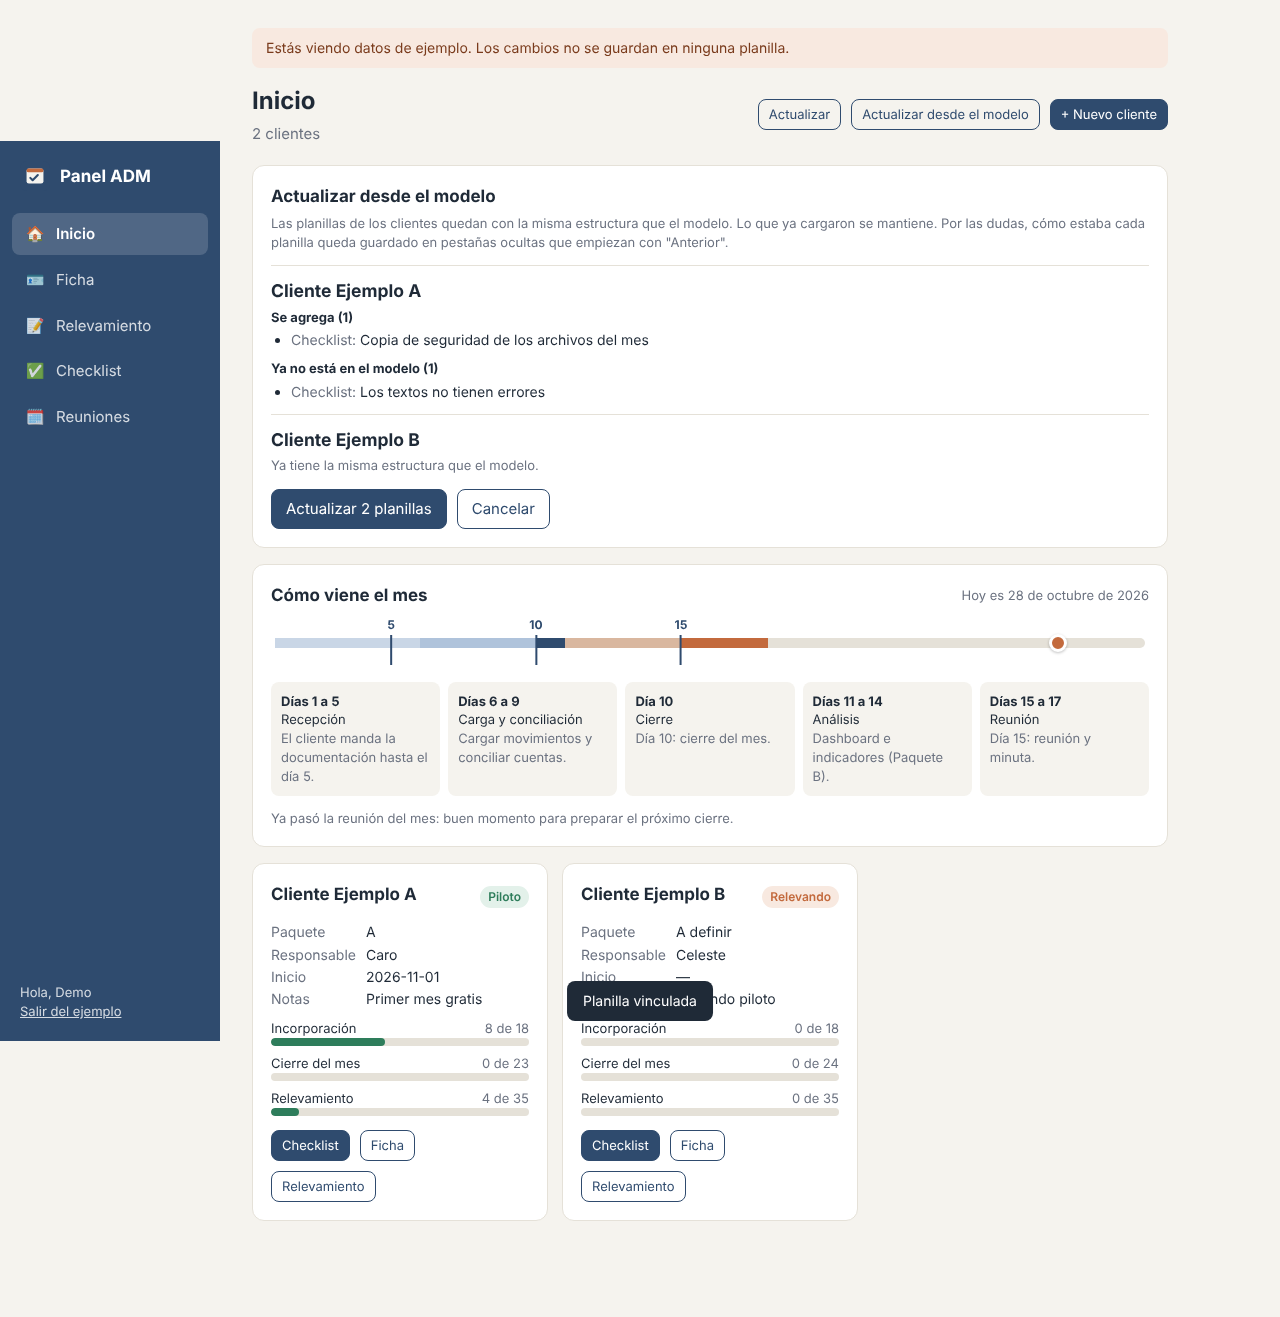
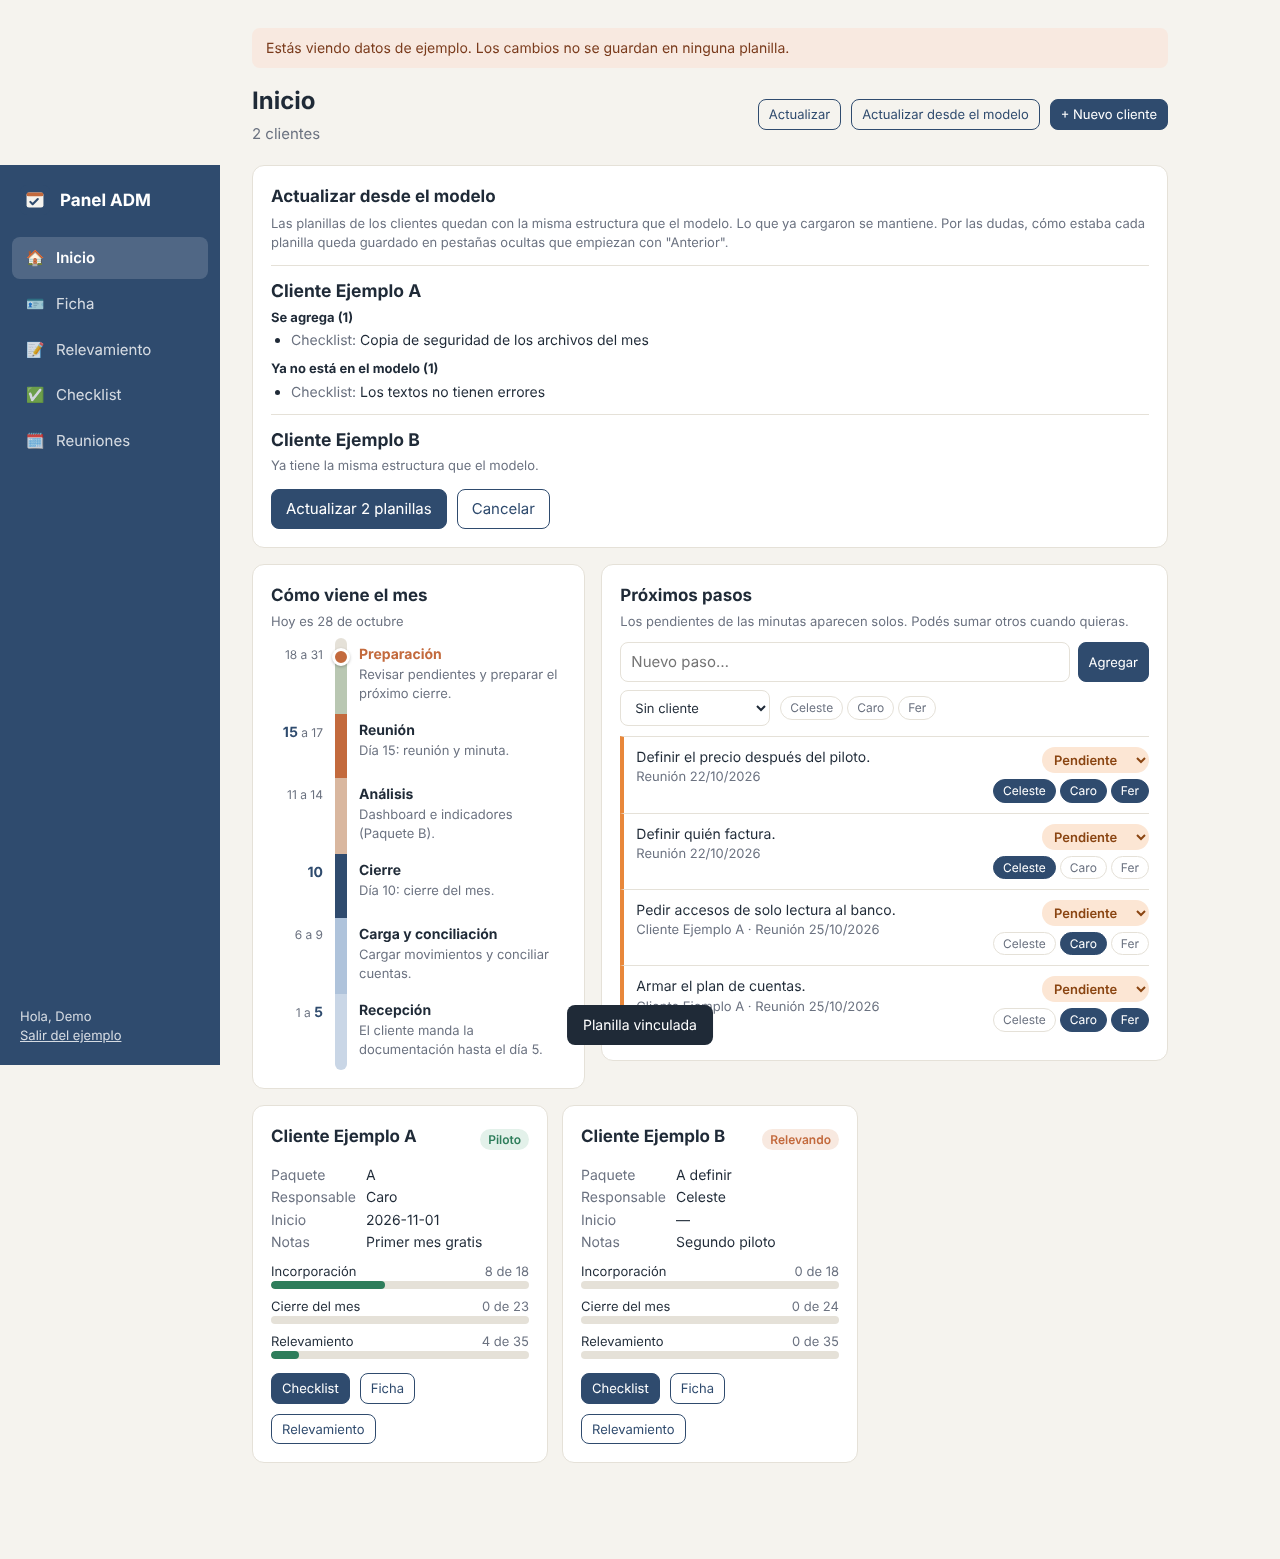
Inicio: línea del mes vertical y próximos pasos
La línea del mes va de abajo (día 1) para arriba. Al costado, los próximos
pasos con estado (pendiente, en proceso, listo) y una o varias responsables.
Los pendientes de las minutas entran solos y se pueden agregar pasos.

Claude-Session: https://claude.ai/code/session_01CkpyEnNgpYTQmv3rxBhnV1

Changed region(s): [[0.0, 0.0311, 0.9375, 0.9339], [0.0, 0.1245, 0.1875, 0.3424], [0.5938, 0.716, 0.6562, 0.7472]]

diff --git a/index.html b/index.html
@@ -91,17 +91,39 @@
   .client-card dt { color: var(--muted); }
   .client-card dd { margin: 0; }
 
-  /* Calendario del mes */
-  .month { position: relative; height: 54px; margin: 8px 4px 4px; }
-  .month .track { position: absolute; left: 0; right: 0; top: 22px; height: 10px; border-radius: 99px; background: var(--line); }
-  .month .seg { position: absolute; top: 22px; height: 10px; }
-  .month .mark { position: absolute; top: 0; transform: translateX(-50%); font-size: 12px; font-weight: 700; color: var(--primary); text-align: center; }
-  .month .mark::after { content: ""; display: block; width: 2px; height: 30px; margin: 2px auto 0; background: var(--primary); }
-  .month .today { position: absolute; top: 18px; width: 18px; height: 18px; border-radius: 50%; background: var(--accent); border: 3px solid #fff; transform: translateX(-50%); box-shadow: 0 1px 3px rgba(0,0,0,.25); }
-  .phases { display: grid; grid-template-columns: repeat(5, 1fr); gap: 8px; margin-top: 12px; }
-  .phase { padding: 10px; border-radius: 8px; background: var(--bg); font-size: 13px; }
-  .phase b { display: block; font-size: 13px; }
-  .phase.now { background: var(--accent-soft); outline: 2px solid var(--accent); }
+  /* Calendario del mes: de abajo (día 1) para arriba */
+  .home-grid { display: grid; grid-template-columns: minmax(250px, 1fr) 1.7fr; gap: 16px; align-items: start; }
+  .vline { margin-top: 8px; }
+  .vstep { display: grid; grid-template-columns: 52px 12px 1fr; gap: 0 12px; min-height: 64px; }
+  .vday { font-size: 12px; color: var(--muted); text-align: right; padding-top: 8px; }
+  .vday b { color: var(--primary); font-size: 14px; }
+  .vbar { position: relative; background: var(--line); }
+  .vstep:first-child .vbar { border-radius: 99px 99px 0 0; }
+  .vstep:last-child .vbar { border-radius: 0 0 99px 99px; }
+  .vstep.past .vbar, .vstep.now .vbar { background: var(--c); }
+  .vstep.now .vbar { background: linear-gradient(to top, var(--c) var(--fill), var(--line) var(--fill)); }
+  .vbar .today { position: absolute; left: 50%; bottom: var(--fill); width: 18px; height: 18px; border-radius: 50%; background: var(--accent); border: 3px solid #fff; transform: translate(-50%, 50%); box-shadow: 0 1px 3px rgba(0,0,0,.25); }
+  .vtext { font-size: 13px; padding: 6px 0 12px; }
+  .vtext b { display: block; font-size: 14px; }
+  .vstep.now .vtext b { color: var(--accent); }
+  .vstep.future .vtext { opacity: .75; }
+
+  /* Próximos pasos */
+  .paso { display: flex; gap: 12px; align-items: flex-start; padding: 10px 0 10px 12px; border-top: 1px solid var(--line); border-left: 4px solid var(--st); }
+  .paso-main { flex: 1; min-width: 0; }
+  .paso-text { font-size: 14px; }
+  .paso.listo .paso-text { color: var(--muted); text-decoration: line-through; }
+  .paso-ctrl { display: flex; flex-direction: column; align-items: flex-end; gap: 6px; flex-shrink: 0; }
+  .chips { display: flex; gap: 4px; flex-wrap: wrap; }
+  .chip { border: 1px solid var(--line); background: #fff; color: var(--muted); border-radius: 99px; padding: 2px 9px; font-size: 12px; cursor: pointer; font-family: inherit; }
+  .chip.on { background: var(--primary); border-color: var(--primary); color: #fff; }
+  select.estado { width: auto; padding: 4px 8px; font-size: 13px; font-weight: 600; border-radius: 99px; border: 0; background: var(--st-soft); color: var(--st-ink); cursor: pointer; }
+  .st-pend { --st: #E8873A; --st-soft: #FCE6D4; --st-ink: #8A4512; }
+  .st-proc { --st: #E5B800; --st-soft: #FFF4C2; --st-ink: #6E5600; }
+  .st-listo { --st: var(--ok); --st-soft: var(--ok-soft); --st-ink: var(--ok); }
+  .paso-add { display: grid; grid-template-columns: 1fr auto; gap: 8px; margin-bottom: 10px; }
+  .paso-add .row { grid-column: 1 / -1; }
+  details.listos summary { cursor: pointer; font-size: 14px; color: var(--muted); padding: 10px 0 4px; border-top: 1px solid var(--line); }
 
   /* Checklist */
   .stage-head { display: flex; align-items: center; gap: 12px; cursor: pointer; }
@@ -166,7 +188,8 @@
     main { padding: 18px 16px 90px; }
     .field { grid-template-columns: 1fr; gap: 4px; }
     .field .lbl { padding-top: 0; }
-    .phases { grid-template-columns: 1fr 1fr; }
+    .home-grid { grid-template-columns: 1fr; }
+    .home-grid .pasos-col { order: -1; }
     .form-grid { grid-template-columns: 1fr; }
     .stage-head .bar { width: 70px; }
     select.client-select { width: 100%; }
@@ -208,6 +231,7 @@ const state = {
   current: null,       // nombre del cliente elegido
   cache: {},           // datos por planilla
   meetings: null,
+  pasos: null,
   collapsed: {},
   error: null,
 };
@@ -550,7 +574,7 @@ function renderLogin(msg) {
 
 async function start(mode, interactive, forceConsent) {
   state.mode = mode;
-  state.cache = {}; state.meetings = null;
+  state.cache = {}; state.meetings = null; state.pasos = null;
   CFG.indiceId_active = mode === "demo" ? "INDICE" : CFG.indiceId;
   store("adm_mode", mode);
   $("#root").innerHTML = `<div class="login"><p class="loading">Cargando…</p></div>`;
@@ -633,7 +657,7 @@ async function renderPage() {
     await fn(el);
   } catch (e) {
     el.innerHTML = `<div class="error">Algo falló: ${esc(e.message)}</div><button class="btn ghost" id="retry">Reintentar</button>`;
-    $("#retry").onclick = () => { state.cache = {}; state.meetings = null; renderPage(); };
+    $("#retry").onclick = () => { state.cache = {}; state.meetings = null; state.pasos = null; renderPage(); };
   }
 }
 
@@ -668,23 +692,144 @@ function monthCard() {
   const now = new Date();
   const day = now.getDate();
   const last = new Date(now.getFullYear(), now.getMonth() + 1, 0).getDate();
-  const pct = (d) => ((d - 1) / (last - 1)) * 100;
-  const ph = phaseFor(day);
-  const mes = now.toLocaleDateString("es-AR", { month: "long", year: "numeric" });
-  const colors = ["#C9D6E6", "#AFC3DB", "#2F4B6E", "#D9B79F", "#C36A3D"];
+  const mes = now.toLocaleDateString("es-AR", { month: "long" });
+  const colors = ["#C9D6E6", "#AFC3DB", "#2F4B6E", "#D9B79F", "#C36A3D", "#B9C7B2"];
+  const steps = [...PHASES, { from: 18, to: last, name: "Preparación", text: "Revisar pendientes y preparar el próximo cierre." }];
+  const dayLabel = (p) => (p.from === p.to ? `<b>${p.from}</b>` : `${[5, 10, 15].includes(p.from) ? `<b>${p.from}</b>` : p.from} a ${[5, 10, 15].includes(p.to) ? `<b>${p.to}</b>` : p.to}`);
   return `<div class="card">
-    <div class="row"><h2 style="margin:0">Cómo viene el mes</h2><span class="spacer"></span><span class="muted small">Hoy es ${day} de ${esc(mes)}</span></div>
-    <div class="month">
-      <div class="track"></div>
-      ${PHASES.map((p, i) => `<div class="seg" style="left:${pct(p.from)}%;width:${Math.max(pct(p.to + 1) - pct(p.from), 1)}%;background:${colors[i]}"></div>`).join("")}
-      ${[5, 10, 15].map((d) => `<div class="mark" style="left:${pct(d)}%">${d}</div>`).join("")}
-      <div class="today" style="left:${pct(day)}%" title="Hoy"></div>
+    <h2 style="margin:0">Cómo viene el mes</h2>
+    <p class="muted small" style="margin:4px 0 0">Hoy es ${day} de ${esc(mes)}</p>
+    <div class="vline">
+      ${steps.map((p, i) => {
+        const when = day > p.to ? "past" : day < p.from ? "future" : "now";
+        const fill = Math.round(((day - p.from + 0.5) / (p.to - p.from + 1)) * 100);
+        return `<div class="vstep ${when}" style="--c:${colors[i]};--fill:${fill}%">
+          <div class="vday">${dayLabel(p)}</div>
+          <div class="vbar">${when === "now" ? `<span class="today" title="Hoy"></span>` : ""}</div>
+          <div class="vtext"><b>${esc(p.name)}</b><span class="muted">${esc(p.text)}</span></div>
+        </div>`;
+      }).reverse().join("")}
     </div>
-    <div class="phases">
-      ${PHASES.map((p, i) => `<div class="phase ${i === ph ? "now" : ""}"><b>${p.from === p.to ? "Día " + p.from : "Días " + p.from + " a " + p.to}</b>${p.name}<div class="muted">${p.text}</div></div>`).join("")}
-    </div>
-    ${ph < 0 ? `<p class="muted small" style="margin-bottom:0">Ya pasó la reunión del mes: buen momento para preparar el próximo cierre.</p>` : ""}
   </div>`;
+}
+
+/* Próximos pasos: viven en la pestaña "Próximos pasos" de la planilla de reuniones.
+   Los pendientes de cada minuta se pasan solos la primera vez que se abre el panel después de cargarla. */
+const PASOS_TAB = "Próximos pasos";
+const PASOS_HEAD = ["Paso", "Cliente", "Responsables", "Estado", "Origen", "Fecha"];
+const ESTADOS = [{ name: "Pendiente", cls: "st-pend" }, { name: "En proceso", cls: "st-proc" }, { name: "Listo", cls: "st-listo" }];
+const estadoDe = (v) => ESTADOS.find((e) => e.name.toLowerCase() === txt(v).toLowerCase()) || ESTADOS[0];
+const hoyTexto = () => { const d = new Date(); return `${d.getDate()}/${d.getMonth() + 1}/${d.getFullYear()}`; };
+
+// "Cele: juntar info de Es Kefir." → { text: "Juntar info de Es Kefir.", resp: ["Celeste"] }. "Todas:" son las tres.
+function splitPendientes(texto) {
+  const socias = CFG.socias || [];
+  return String(texto || "").split(/\n+/).map((l) => l.replace(/^[-•*\s]+/, "").trim()).filter(Boolean).map((l) => {
+    const m = l.match(/^([^:]{2,30}):\s*(.+)$/);
+    if (!m) return { text: l, resp: [] };
+    const who = m[1].toLowerCase().split(/\s*(?:,|\by\b)\s*/).filter(Boolean);
+    const resp = who.some((w) => /^tod[ao]s$/.test(w)) ? [...socias]
+      : socias.filter((s) => who.some((w) => s.toLowerCase().startsWith(w) || w.startsWith(s.toLowerCase())));
+    if (!resp.length) return { text: l, resp: [] };
+    return { text: m[2].charAt(0).toUpperCase() + m[2].slice(1), resp };
+  });
+}
+
+async function loadPasos(force) {
+  if (state.pasos && !force) return state.pasos;
+  const place = await meetingsPlace();
+  const read = async () => (await api().get(place.id, tabRange(PASOS_TAB, "A1:F1000"))).slice(1).map((r, i) => ({
+    row: i + 2, text: txt(r[0]), cliente: txt(r[1]), resp: txt(r[2]).split(/\s*,\s*/).filter(Boolean),
+    estado: estadoDe(r[3]).name, origen: txt(r[4]), fecha: txt(r[5]),
+  })).filter((p) => p.text);
+  if (!(await api().tabs(place.id)).includes(PASOS_TAB)) {
+    await api().addTab(place.id, PASOS_TAB);
+    await api().set(place.id, tabRange(PASOS_TAB, "A1:F1"), [PASOS_HEAD]);
+  }
+  let pasos = await read();
+  const origins = new Set(pasos.map((p) => p.origen));
+  const nuevos = [];
+  for (const m of await loadMeetings()) {
+    const origen = `Reunión ${m.fecha}${m.cliente ? " · " + m.cliente : ""}`;
+    if (!m.pendientes || origins.has(origen)) continue;
+    splitPendientes(m.pendientes).forEach((x) => nuevos.push([x.text, m.cliente === "Interna" ? "" : m.cliente, x.resp.join(", "), "Pendiente", origen, m.fecha]));
+  }
+  if (nuevos.length) { await api().append(place.id, tabRange(PASOS_TAB, "A1:F1"), nuevos); pasos = await read(); }
+  state.pasos = { place, list: pasos };
+  return state.pasos;
+}
+
+function chipsHtml(selected, attrs = "") {
+  return `<div class="chips">${(CFG.socias || []).map((s) => `<button type="button" class="chip ${selected.includes(s) ? "on" : ""}" data-socia="${esc(s)}" ${attrs}>${esc(s)}</button>`).join("")}</div>`;
+}
+
+function pasoHtml(p) {
+  const st = estadoDe(p.estado);
+  return `<div class="paso ${st.cls} ${st.name === "Listo" ? "listo" : ""}" data-row="${p.row}">
+    <div class="paso-main">
+      <div class="paso-text">${esc(p.text)}</div>
+      <div class="small muted">${[p.cliente, p.origen.startsWith("Reunión") ? p.origen.replace(/ · .*/, "") : ""].filter(Boolean).map(esc).join(" · ")}</div>
+    </div>
+    <div class="paso-ctrl">
+      <select class="estado ${st.cls}" aria-label="Estado">${ESTADOS.map((e) => `<option ${e.name === st.name ? "selected" : ""}>${e.name}</option>`).join("")}</select>
+      ${chipsHtml(p.resp)}
+    </div>
+  </div>`;
+}
+
+function renderPasos(box) {
+  const data = state.pasos;
+  if (!data || !box) return;
+  const orden = { "En proceso": 0, Pendiente: 1 };
+  const abiertos = data.list.filter((p) => p.estado !== "Listo").sort((a, b) => orden[a.estado] - orden[b.estado] || a.row - b.row);
+  const listos = data.list.filter((p) => p.estado === "Listo").reverse();
+  box.innerHTML = `<div class="card">
+    <div class="row"><h2 style="margin:0">Próximos pasos</h2><span class="spacer"></span>
+      ${state.mode === "google" ? `<a class="small" href="${sheetUrl(data.place.id)}" target="_blank" rel="noopener">Abrir planilla</a>` : ""}</div>
+    <p class="muted small" style="margin:4px 0 12px">Los pendientes de las minutas aparecen solos. Podés sumar otros cuando quieras.</p>
+    <form class="paso-add" id="paso-add">
+      <input type="text" name="text" placeholder="Nuevo paso…" required>
+      <button class="btn small">Agregar</button>
+      <div class="row small">
+        <select name="cliente" style="width:auto"><option value="">Sin cliente</option>${state.clients.map((c) => `<option>${esc(c.name)}</option>`).join("")}</select>
+        ${chipsHtml([])}
+      </div>
+    </form>
+    ${abiertos.length ? abiertos.map(pasoHtml).join("") : `<p class="muted small" style="border-top:1px solid var(--line);padding-top:10px">No hay pasos pendientes.</p>`}
+    ${listos.length ? `<details class="listos" ${state.showListos ? "open" : ""}><summary>Listos (${listos.length})</summary>${listos.map(pasoHtml).join("")}</details>` : ""}
+  </div>`;
+
+  const save = async (p, col, value, ok) => {
+    try { await api().set(data.place.id, tabRange(PASOS_TAB, col + p.row), [[value]]); ok(); renderPasos(box); }
+    catch (e) { toast("No se pudo guardar: " + e.message); }
+  };
+  const find = (el) => data.list.find((p) => p.row === +el.closest(".paso").dataset.row);
+  box.querySelectorAll(".paso select.estado").forEach((sel) => (sel.onchange = () => {
+    const p = find(sel); save(p, "D", sel.value, () => (p.estado = sel.value));
+  }));
+  box.querySelectorAll(".paso .chip").forEach((b) => (b.onclick = () => {
+    const p = find(b), s = b.dataset.socia;
+    const resp = p.resp.includes(s) ? p.resp.filter((x) => x !== s) : (CFG.socias || []).filter((x) => x === s || p.resp.includes(x));
+    save(p, "C", resp.join(", "), () => (p.resp = resp));
+  }));
+  const det = box.querySelector("details.listos");
+  if (det) det.ontoggle = () => (state.showListos = det.open);
+  const form = $("#paso-add", box);
+  form.querySelectorAll(".chip").forEach((b) => (b.onclick = () => b.classList.toggle("on")));
+  form.onsubmit = async (ev) => {
+    ev.preventDefault();
+    const f = new FormData(form), text = txt(f.get("text"));
+    if (!text) return;
+    const resp = [...form.querySelectorAll(".chip.on")].map((b) => b.dataset.socia);
+    form.querySelector("button.btn").disabled = true;
+    try {
+      await api().append(data.place.id, tabRange(PASOS_TAB, "A1:F1"),
+        [[text, f.get("cliente"), resp.join(", "), "Pendiente", "Agregado" + (state.user?.given_name ? " por " + state.user.given_name : ""), hoyTexto()]]);
+      await loadPasos(true);
+      renderPasos(box);
+      $("#paso-add input", box).focus();
+    } catch (e) { form.querySelector("button.btn").disabled = false; toast("No se pudo agregar: " + e.message); }
+  };
 }
 
 function checklistStats(chk) {
@@ -717,11 +862,16 @@ async function pageInicio(el) {
     ${state.lastCreated ? `<div class="banner">Se creó la planilla de <b>${esc(state.lastCreated.name)}</b> en tu "Mi unidad" de Drive.
       Movela a la carpeta del cliente para que las demás socias también la vean.
       <a href="${sheetUrl(state.lastCreated.id)}" target="_blank" rel="noopener">Abrir planilla</a></div>` : ""}
-    ${monthCard()}
+    <div class="home-grid">
+      <div>${monthCard()}</div>
+      <div class="pasos-col" id="pasos"><div class="card muted">Cargando próximos pasos…</div></div>
+    </div>
     <div class="grid">
       ${state.clients.map((c, i) => clientCard(c, books[i])).join("")}
     </div>`;
-  $("#reload").onclick = async () => { state.cache = {}; await loadIndex(); renderPage(); };
+  $("#reload").onclick = async () => { state.cache = {}; state.meetings = null; state.pasos = null; await loadIndex(); renderPage(); };
+  loadPasos().then(() => renderPasos($("#pasos")))
+    .catch((e) => { if ($("#pasos")) $("#pasos").innerHTML = `<div class="card"><h2>Próximos pasos</h2><p class="error small">${esc(e.message)}</p></div>`; });
   el.querySelectorAll("[data-open]").forEach((b) => (b.onclick = () => { state.current = b.dataset.client; store("adm_client", state.current); go(b.dataset.open); }));
   el.querySelectorAll("[data-link]").forEach((f) => (f.onsubmit = (ev) => { ev.preventDefault(); linkSheet(f.dataset.link, f.querySelector("input").value); }));
   el.querySelectorAll("[data-create]").forEach((b) => (b.onclick = () => createSheetFor(b.dataset.create, b)));
@@ -1199,6 +1349,7 @@ function showMeetingForm() {
       }
       await api().append(place.id, tabRange(place.tab, "A1:I1"), [row]);
       await loadMeetings(true);
+      state.pasos = null;   // sus pendientes pasan a Próximos pasos
       toast("Reunión guardada");
       renderPage();
     } catch (e) { btn.disabled = false; toast("No se pudo guardar: " + e.message); }

diff --git a/demo-data.js b/demo-data.js
@@ -53,7 +53,7 @@ window.DEMO_DATA = {
     "Celeste, Caro, Fer",
     "Primera reunión de socias: servicio, paquetes, pilotos",
     "Arrancar con un piloto el 1/11",
-    "Definir precio post piloto; definir quién factura",
+    "Todas: definir el precio después del piloto.\nCele: definir quién factura.",
     "",
     "Celeste"
    ],
@@ -64,7 +64,7 @@ window.DEMO_DATA = {
     "Celeste, Caro y el dueño",
     "Cómo cargan hoy la información",
     "Mandan extractos hasta el día 5",
-    "Pedir accesos de solo lectura al banco",
+    "Caro: pedir accesos de solo lectura al banco.\nCaro y Fer: armar el plan de cuentas.",
     "",
     "Caro"
    ]

diff --git a/README.md b/README.md
@@ -12,6 +12,7 @@ Es una sola página web publicada con GitHub Pages. Los datos no se guardan acá
 | Checklist | Pestaña **Checklist** de la planilla del cliente. Tildar en el panel es lo mismo que tildar en la planilla. |
 | Relevamiento | Pestañas **Relevamiento** y **Evaluación interna** de la planilla del cliente. |
 | Ficha | Pestaña **Ficha del cliente** de la planilla del cliente. |
+| Inicio: próximos pasos | Pestaña **Próximos pasos** de la planilla Reuniones ADM (el panel la crea sola). Los pendientes de cada minuta entran solos ("Cele: …", "Caro y Fer: …", "Todas: …" quedan con esas responsables). También se pueden agregar pasos a mano. |
 | Reuniones | Planilla **Reuniones ADM**, en la carpeta "2. ADM interno": una fila por reunión, con el link a la minuta completa. |
 
 Para sumar un cliente nuevo: en Inicio, **+ Nuevo cliente**. El panel crea su planilla copiando el modelo **MODELO - Check list + relevamiento + ficha (no editar)**, que está en la carpeta "_Modelo de carpeta cliente". También agrega la fila en Clientes ADM. La planilla nueva queda en "Mi unidad" de quien la creó: hay que moverla a la carpeta del cliente para que la vean las demás socias.
